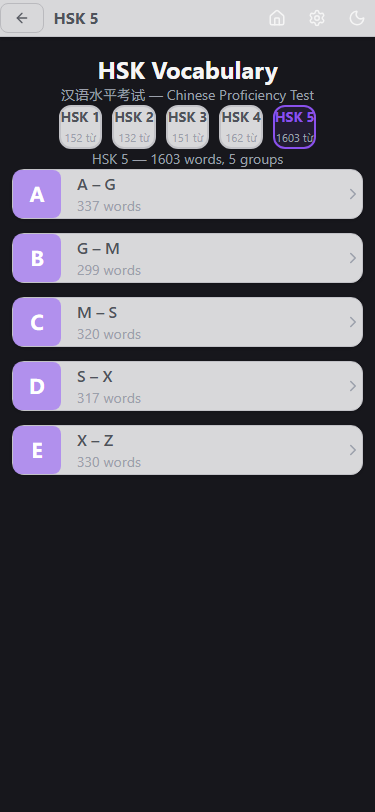
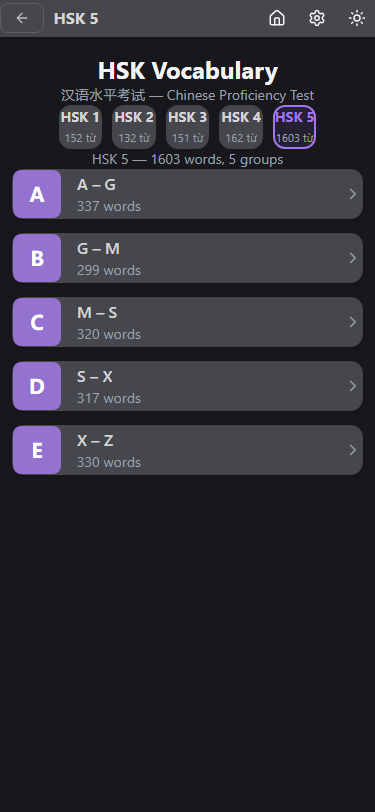
chore: add /ui-review skill and run first review (41/60)
- New skill: .claude/skills/ui-review.md — combined audit + critique
- First review report: Technical 15/20, Design 26/40, Combined 41/60
- Fresh screenshots without date prefix

diff --git a/documents/04-quality/ui-review-latest.md b/documents/04-quality/ui-review-latest.md
@@ -1,0 +1,115 @@
+# UI Review Report — 2026-03-30
+
+## Technical Audit Score
+
+| # | Dimension | Score | Key Finding |
+|---|-----------|-------|-------------|
+| 1 | Accessibility | 3 | ARIA roles on radio groups, semantic HTML. Missing: skip-to-content link, some touch targets borderline 44px |
+| 2 | Performance | 3 | Static build, no layout thrashing. Missing: image lazy-load (N/A — no images), will-change on animated elements |
+| 3 | Responsive Design | 3 | Mobile-first, good breakpoints. Kanji page title truncates on narrow screens. Course detail rows truncate well |
+| 4 | Theming | 3 | Full dark/light via CSS tokens. Courses page screenshot shows light mode (inconsistent capture). HSK cards use opaque bg-primary/80 — good contrast |
+| 5 | Anti-Patterns | 3 | No glassmorphism, no gradient text, no hero metrics grid. Minor: emoji icons on Home (📕📗) instead of proper icon library. Quiz Modes section uses Card component (bordered cards pattern) |
+| **Total** | | **15/20** | **Good** |
+
+## Design Critique Score (Nielsen's 10 Heuristics)
+
+| # | Heuristic | Score | Key Issue |
+|---|-----------|-------|-----------|
+| 1 | Visibility of System Status | 3 | Mastery rings on course detail show progress. No loading states visible. Direction selector has clear active state |
+| 2 | Match System / Real World | 4 | Japanese/Vietnamese bilingual labels natural for target users. "Bài 1", "từ vựng", "ngữ pháp" match learner vocabulary |
+| 3 | User Control and Freedom | 3 | Back buttons present on all sub-pages. No undo for "Clear All Progress" beyond confirm dialog |
+| 4 | Consistency and Standards | 2 | **Key issue**: Courses page renders in light mode while rest is dark. Row styles differ across pages (some have borders, some don't). Home uses emoji icons while lesson menu uses lucide icons |
+| 5 | Error Prevention | 3 | Destructive "Clear All Progress" has ConfirmDialog. Quiz direction defaults to ja-vi (safe default) |
+| 6 | Recognition Rather Than Recall | 3 | Section headings (DIRECTION, QUIZ MODES, GRAMMAR) help orientation. Lesson numbers visible. ChevronRight indicates navigability |
+| 7 | Flexibility and Efficiency | 2 | No keyboard shortcuts visible on these screens. No search/filter for 25-lesson lists. No "jump to lesson" |
+| 8 | Aesthetic and Minimalist Design | 3 | Clean flat sections, good use of whitespace. Settings page well-organized. Lesson menu is clean. Minor: Home page has 10 items in "Start Learning" — long scroll |
+| 9 | Error Recovery | 2 | No visible error states in screenshots. Vocabulary page blank (no graceful empty state shown) |
+| 10 | Help and Documentation | 1 | No onboarding, no tooltips, no help text explaining quiz modes or directions. New users may not understand "VN → Romaji" |
+| **Total** | | **26/40** | **Acceptable** |
+
+## Combined Summary
+
+```
+=== UI REVIEW REPORT ===
+Technical Score: 15/20 (Good)
+Design Score:   26/40 (Acceptable)
+Combined:       41/60 (Good)
+
+Top 5 Issues (P0-P1):
+
+1. [P1] Inconsistent theming: Courses page captures in light mode
+   while app is dark — screenshot script or theme detection issue
+   → Location: courses-dark-mobile.png
+
+2. [P1] No help/onboarding: Quiz directions (ja-vi, vi-ja, vi-romaji)
+   have no explanation for new users
+   → Location: lesson-menu, all quiz entry points
+
+3. [P1] Mixed icon systems: Home uses emoji (📕📗漢あ文数中試),
+   Lesson menu uses lucide icons — visual inconsistency
+   → Location: home vs lesson-menu
+
+4. [P2] Long Start Learning list: 10 items requires scrolling past
+   fold on mobile to reach Quiz Modes section
+   → Location: home-dark-mobile.png
+
+5. [P2] Vocabulary page blank: No graceful empty/loading state
+   → Location: vocabulary-dark-mobile.png
+
+What's Working Well:
+- Flat section layout with uppercase headings is clean and consistent
+- Direction selector with active state is clear
+- Mastery rings on course detail provide progress feedback
+- Gradient headers on course/lesson pages create visual hierarchy
+- Row-based lists with numbered circles + chevrons work well
+- Settings page organization is logical and spacious
+- Dark mode colors are comfortable (not too contrasty)
+- Touch targets are generally adequate (py-4 to py-5 padding)
+
+Recommended Next Actions:
+1. Fix screenshot capture for Courses page (theme detection)
+2. Add brief help text/tooltips for quiz directions
+3. Migrate Home page emoji icons to lucide or consistent icon set
+4. Consider collapsible sections or categories on Home page
+5. Add empty state component for Vocabulary page
+6. Run /polish for final consistency pass
+```
+
+## Detailed Findings
+
+### P1 Issues
+
+**[P1] Inconsistent icon system**
+- Location: `routes/+page.svelte` (Home) vs `routes/course/[courseId]/lesson/[id]/+page.svelte` (Lesson Menu)
+- Impact: Home uses emoji characters (📕, 漢, あ, 文, 数, 中, 試) while Lesson Menu uses lucide-svelte icons (Layers, CheckCircle, Keyboard, BookOpen, Book, PenLine). Creates visual inconsistency between pages.
+- Recommendation: Replace emoji icons on Home with a consistent icon set (lucide or custom SVG icons in colored containers)
+
+**[P1] No contextual help for quiz features**
+- Location: Lesson menu direction selector, quiz mode buttons
+- Impact: "VN → Romaji", "Multiple Choice", "Typing Quiz" — new users may not understand what these do or which to choose
+- Recommendation: Add subtle description text below direction buttons or quiz mode names
+
+### P2 Issues
+
+**[P2] Courses page theme mismatch in capture**
+- Location: `courses-dark-mobile.png` renders in light mode
+- Impact: Screenshot evidence inconsistency. May indicate theme detection issue in the app or capture script
+- Recommendation: Investigate `capture-screenshots.ts` localStorage dark mode injection for courses route
+
+**[P2] Home page information density**
+- Location: `home-dark-mobile.png`
+- Impact: 10 "Start Learning" items + Quiz Modes section = user must scroll significantly. Quiz Modes section barely visible above fold
+- Recommendation: Group courses (N5-N1) into expandable section, or show only primary courses with "See all" link
+
+**[P2] Vocabulary empty state**
+- Location: `vocabulary-dark-mobile.png`
+- Impact: Blank white page — no guidance for user
+- Recommendation: Use PageEmpty component with call-to-action
+
+### Positive Patterns to Maintain
+
+1. **Flat section layout** — uppercase headings + content without Card wrappers looks professional
+2. **Gradient headers** — course/lesson headers with BackButton in flow create strong visual anchoring
+3. **Consistent row pattern** — numbered circle + text + chevron is readable and touch-friendly
+4. **Settings page** — clean organization, logical sections, good spacing
+5. **Dark mode palette** — comfortable purple-tinted dark with good text contrast

diff --git a/.claude/skills/ui-review.md b/.claude/skills/ui-review.md
@@ -1,0 +1,97 @@
+---
+name: ui-review
+description: "Run combined UI/UX quality review: capture fresh screenshots, then run technical audit (/audit) + design critique (/critique) on all screens. Use after every UI/UX change to track quality."
+user-invocable: true
+---
+
+# UI Review — Combined Quality Check
+
+Run this skill after every UI/UX change to measure quality before and after.
+
+## Step 1: Capture Fresh Screenshots
+
+```bash
+cd svelte-app
+npx vite build
+BASE_URL=http://localhost:5174 npx tsx scripts/capture-screenshots.ts
+```
+
+Screenshots are saved to `documents/04-quality/screenshots/` — one per screen, no date prefix, overwritten each run.
+
+## Step 2: Visual Review
+
+Read ALL dark-mobile screenshots (primary review target):
+- `documents/04-quality/screenshots/home-dark-mobile.png`
+- `documents/04-quality/screenshots/courses-dark-mobile.png`
+- `documents/04-quality/screenshots/course-detail-dark-mobile.png`
+- `documents/04-quality/screenshots/lesson-menu-dark-mobile.png`
+- `documents/04-quality/screenshots/kanji-dark-mobile.png`
+- `documents/04-quality/screenshots/hsk-dark-mobile.png`
+- `documents/04-quality/screenshots/settings-dark-mobile.png`
+- `documents/04-quality/screenshots/vocabulary-dark-mobile.png`
+
+## Step 3: Technical Audit (from /audit)
+
+Score each dimension 0-4:
+
+| # | Dimension | Score | Key Finding |
+|---|-----------|-------|-------------|
+| 1 | Accessibility | ? | |
+| 2 | Performance | ? | |
+| 3 | Responsive Design | ? | |
+| 4 | Theming | ? | |
+| 5 | Anti-Patterns | ? | |
+| **Total** | | **??/20** | |
+
+## Step 4: Design Critique (from /critique)
+
+Score Nielsen's 10 heuristics 0-4:
+
+| # | Heuristic | Score | Key Issue |
+|---|-----------|-------|-----------|
+| 1 | Visibility of System Status | ? | |
+| 2 | Match System / Real World | ? | |
+| 3 | User Control and Freedom | ? | |
+| 4 | Consistency and Standards | ? | |
+| 5 | Error Prevention | ? | |
+| 6 | Recognition Rather Than Recall | ? | |
+| 7 | Flexibility and Efficiency | ? | |
+| 8 | Aesthetic and Minimalist Design | ? | |
+| 9 | Error Recovery | ? | |
+| 10 | Help and Documentation | ? | |
+| **Total** | | **??/40** | |
+
+## Step 5: Combined Summary
+
+Present a single combined report:
+
+```
+=== UI REVIEW REPORT ===
+Technical Score: ??/20 ([band])
+Design Score:   ??/40 ([band])
+Combined:       ??/60
+
+Top 5 Issues (P0-P1):
+1. ...
+2. ...
+
+What's Working Well:
+- ...
+
+Recommended Next Actions:
+1. ...
+```
+
+## Scoring Bands
+
+**Technical (20):** 18-20 Excellent, 14-17 Good, 10-13 Acceptable, 6-9 Poor, 0-5 Critical
+**Design (40):** 36-40 Excellent, 28-35 Good, 20-27 Acceptable, 12-19 Poor, 0-11 Critical
+**Combined (60):** 50+ Excellent, 40-49 Good, 30-39 Acceptable, 20-29 Poor, <20 Critical
+
+## Rules
+
+- Be brutally honest with scores
+- Reference specific screenshots when citing issues
+- Only flag issues visible in screenshots or verifiable in code
+- Compare with previous run if available (track improvement)
+- Save report to `documents/04-quality/ui-review-latest.md`
